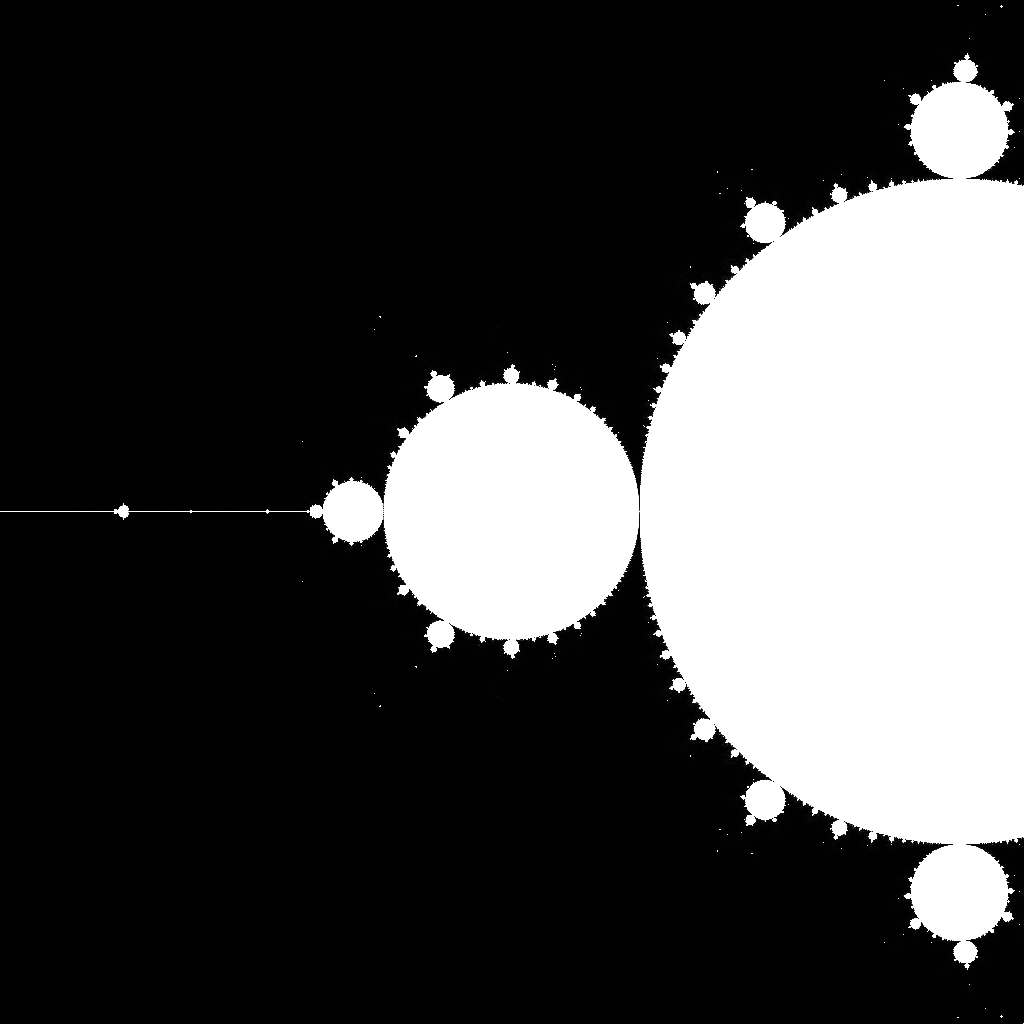
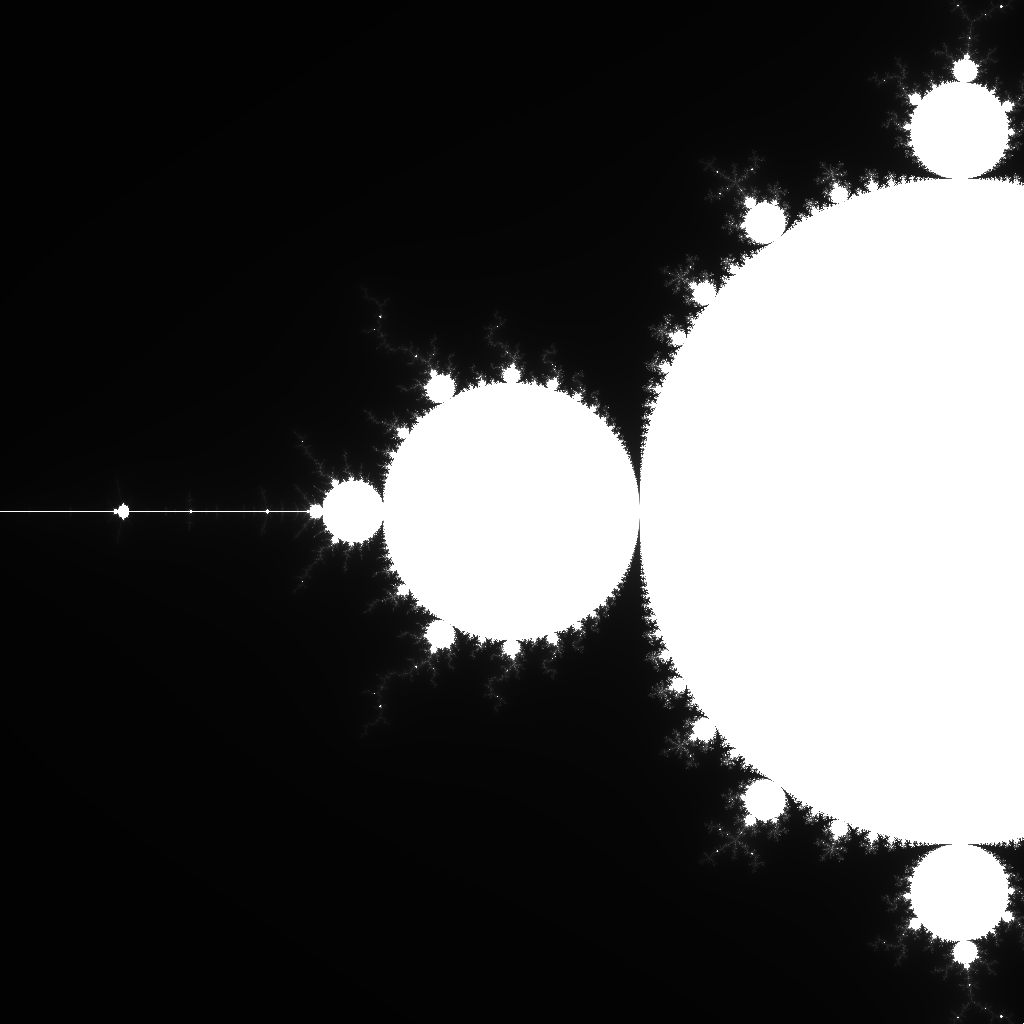
Slightly cleaned code and reduced iterations for nicer image

diff --git a/src/main.rs b/src/main.rs
@@ -76,23 +76,17 @@ fn main() {
 	};
 
 	let pipeline = Arc::new(GraphicsPipeline::start()
-		// Defines what kind of vertex input is expected.
 		.vertex_input_single_buffer::<Vertex>()
-		// The vertex shader.
 		.vertex_shader(vertexShader.main_entry_point(), ())
-		// Defines the viewport (explanations below).
 		.viewports_dynamic_scissors_irrelevant(1)
-		// The fragment shader.
 		.fragment_shader(fragmentShader.main_entry_point(), ())
-		// This graphics pipeline object concerns the first pass of the render pass.
 		.render_pass(Subpass::from(renderPass.clone(), 0).unwrap())
-		// Now that everything is specified, we call `build`.
 		.build(device.clone())
 		.unwrap());
 
 	let mut builder = AutoCommandBufferBuilder::primary_one_time_submit(device.clone(), queue.family()).unwrap();
 	builder
-		.begin_render_pass(framebuffer.clone(), false, vec![[1.0, 1.0, 1.0, 0.0].into()]).unwrap()
+		.begin_render_pass(framebuffer.clone(), false, vec![[0.0, 0.0, 0.0, 0.0].into()]).unwrap()
 		.draw(pipeline.clone(), &dynamicState, vertexBuffer.clone(), (), ()).unwrap()
 		.end_render_pass().unwrap()
 		.copy_image_to_buffer(image.clone(), buffer.clone()).unwrap();
